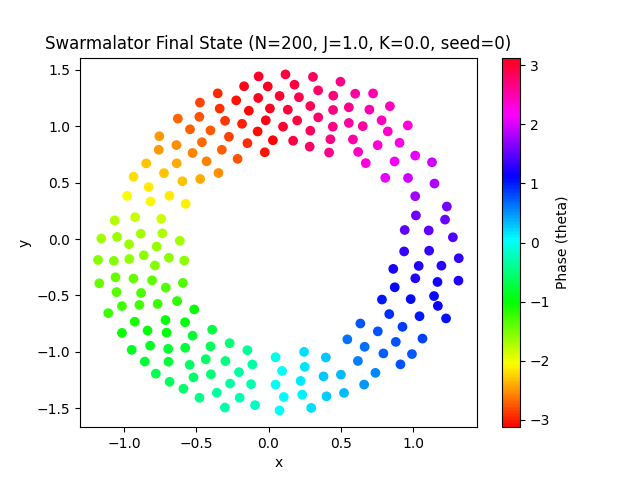
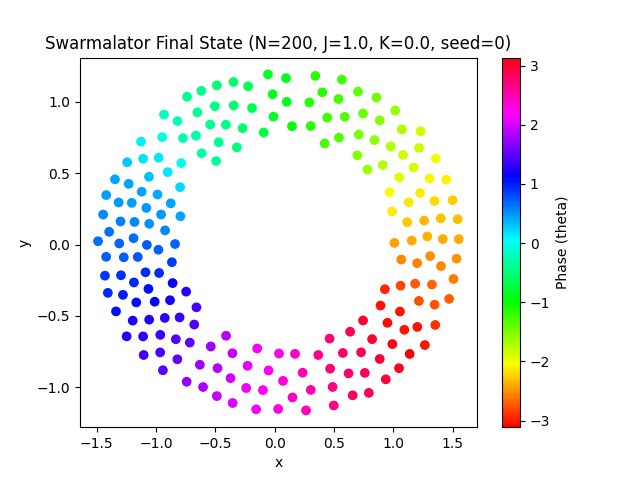
merged run.py

diff --git a/run.py b/run.py
@@ -8,7 +8,7 @@ from src.swarm import Swarm
 def save_final_state(swarm, N, J, K, seed):
     os.makedirs("final_states", exist_ok=True)
 
-    plt.scatter(swarm.x, swarm.y, c=swarm.theta, cmap='hsv')
+    plt.scatter(swarm.x_pos, swarm.y_pos, c=swarm.phases, cmap='hsv')
     plt.colorbar(label='Phase (theta)')
     plt.title(f'Swarmalator Final State (N={N}, J={J}, K={K}, seed={seed})')
     plt.xlabel('x')
@@ -21,21 +21,21 @@ def save_final_state(swarm, N, J, K, seed):
 def run_once(N, J, K, seed, dt, steps, burnin, sample_every):
     np.random.seed(seed)
 
-    x = np.random.uniform(-1.0, 1.0, N)
-    y = np.random.uniform(-1.0, 1.0, N)
-    theta = np.random.uniform(-np.pi, np.pi, N)
+    # x = np.random.uniform(-1.0, 1.0, N)
+    # y = np.random.uniform(-1.0, 1.0, N)
+    # theta = np.random.uniform(-np.pi, np.pi, N)
 
-    swarm = Swarm(N=N, x=x, y=y, theta=theta, J=J, K=K, dt=dt)
+    swarm = Swarm(N=N, J=J, K=K, dt=dt, steps=steps, chirality=False, phase_coupling=False, predator=False)
 
     R_vals = []
     S_vals = []
 
     for t in range(steps):
-        swarm.time_step()
+        swarm.step()
 
         if t >= burnin:
-            R_vals.append(np.abs(np.mean(np.exp(1j * swarm.theta))))
-            S_vals.append(swarm.correlation_order_parameter())
+            R_vals.append(np.abs(np.mean(np.exp(1j * swarm.phases))))
+            S_vals.append(swarm._correlation_order_parameter())
 
     R_mean = float(np.mean(R_vals))
     S_mean = float(np.mean(S_vals))
